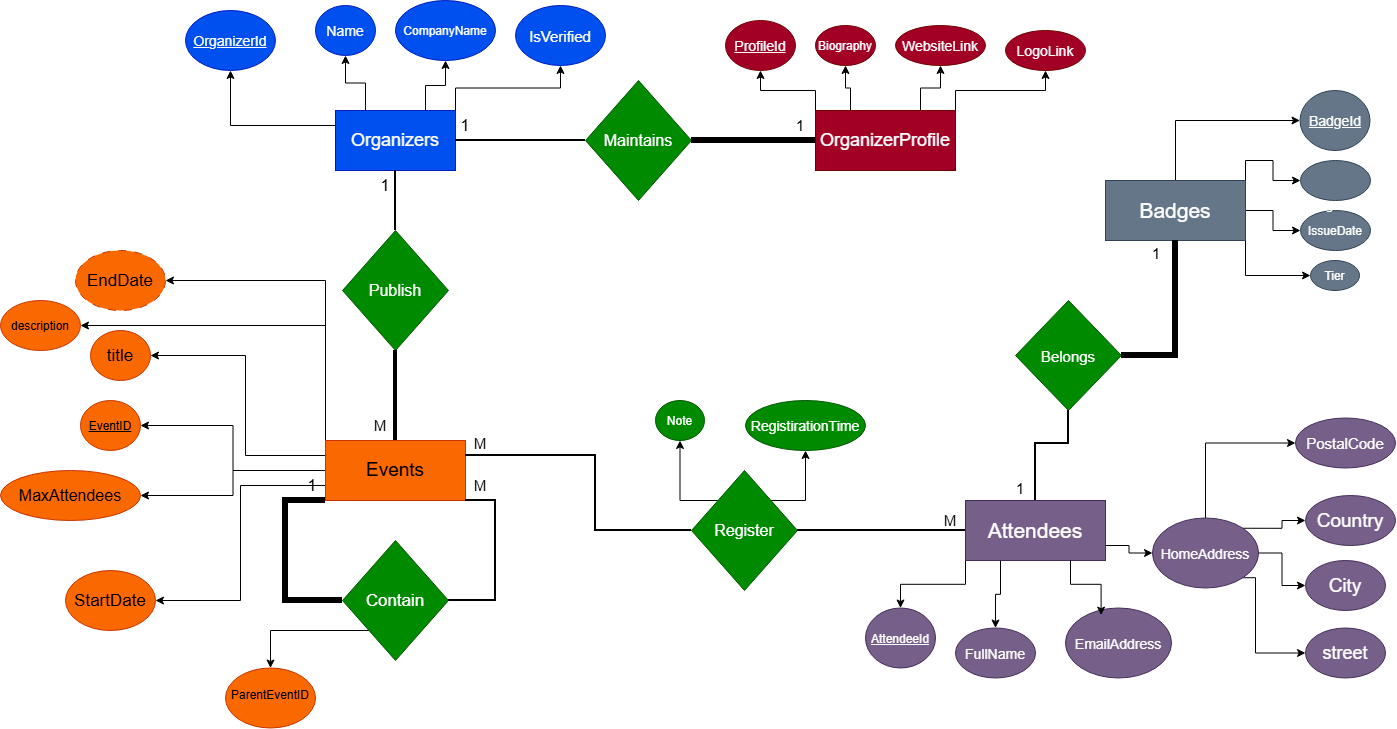
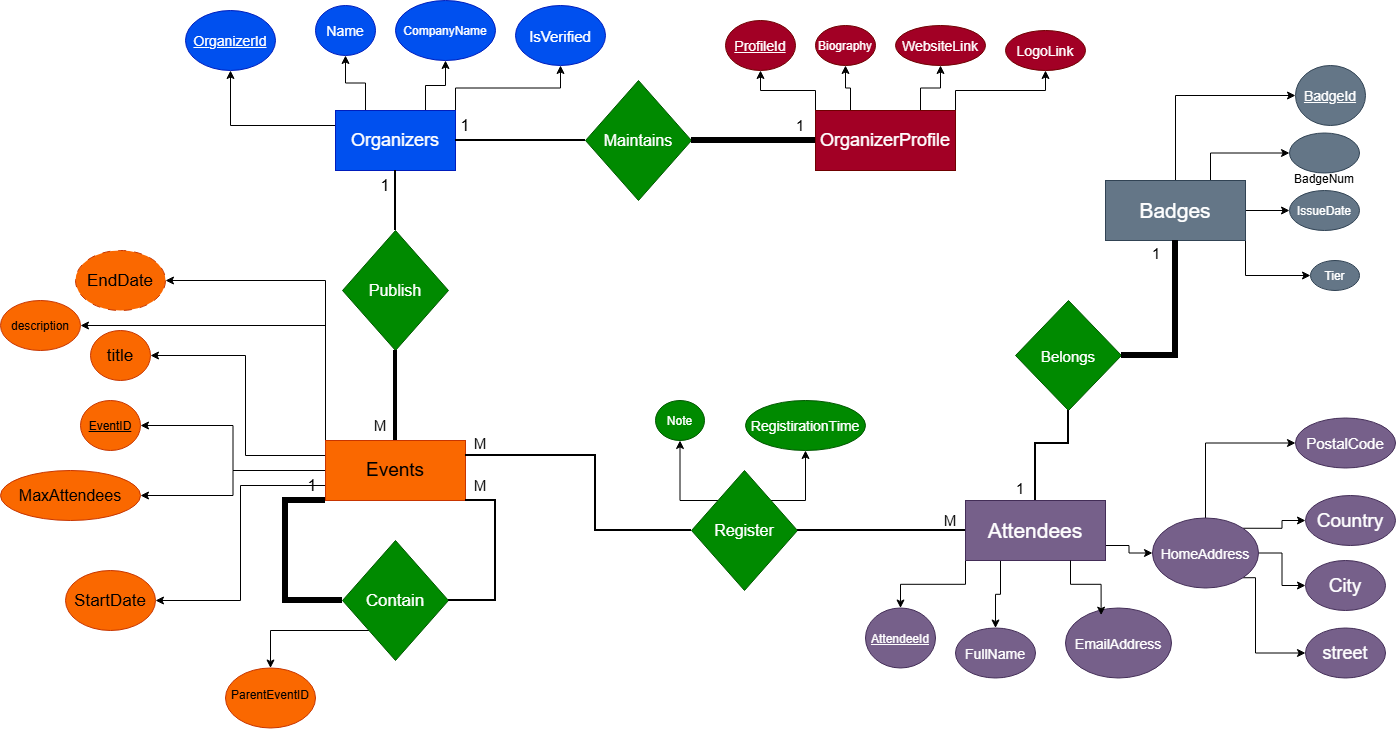
add MigrateAsync() to main & edit ERD

Changed region(s): [[0.8926, 0.0905, 0.985, 0.3621]]

diff --git a/EventHub/Program.cs b/EventHub/Program.cs
@@ -1,10 +1,16 @@
-namespace EventHub
+using Microsoft.EntityFrameworkCore;
+using System.Threading.Tasks;
+
+namespace EventHub
 {
     internal class Program
     {
-        static void Main(string[] args)
+        static async Task Main(string[] args)
         {
             Console.WriteLine("EventHub — EF Core Console App");
+            using AppDbContext db = new();
+
+            await db.Database.MigrateAsync();
         }
     }
 }
